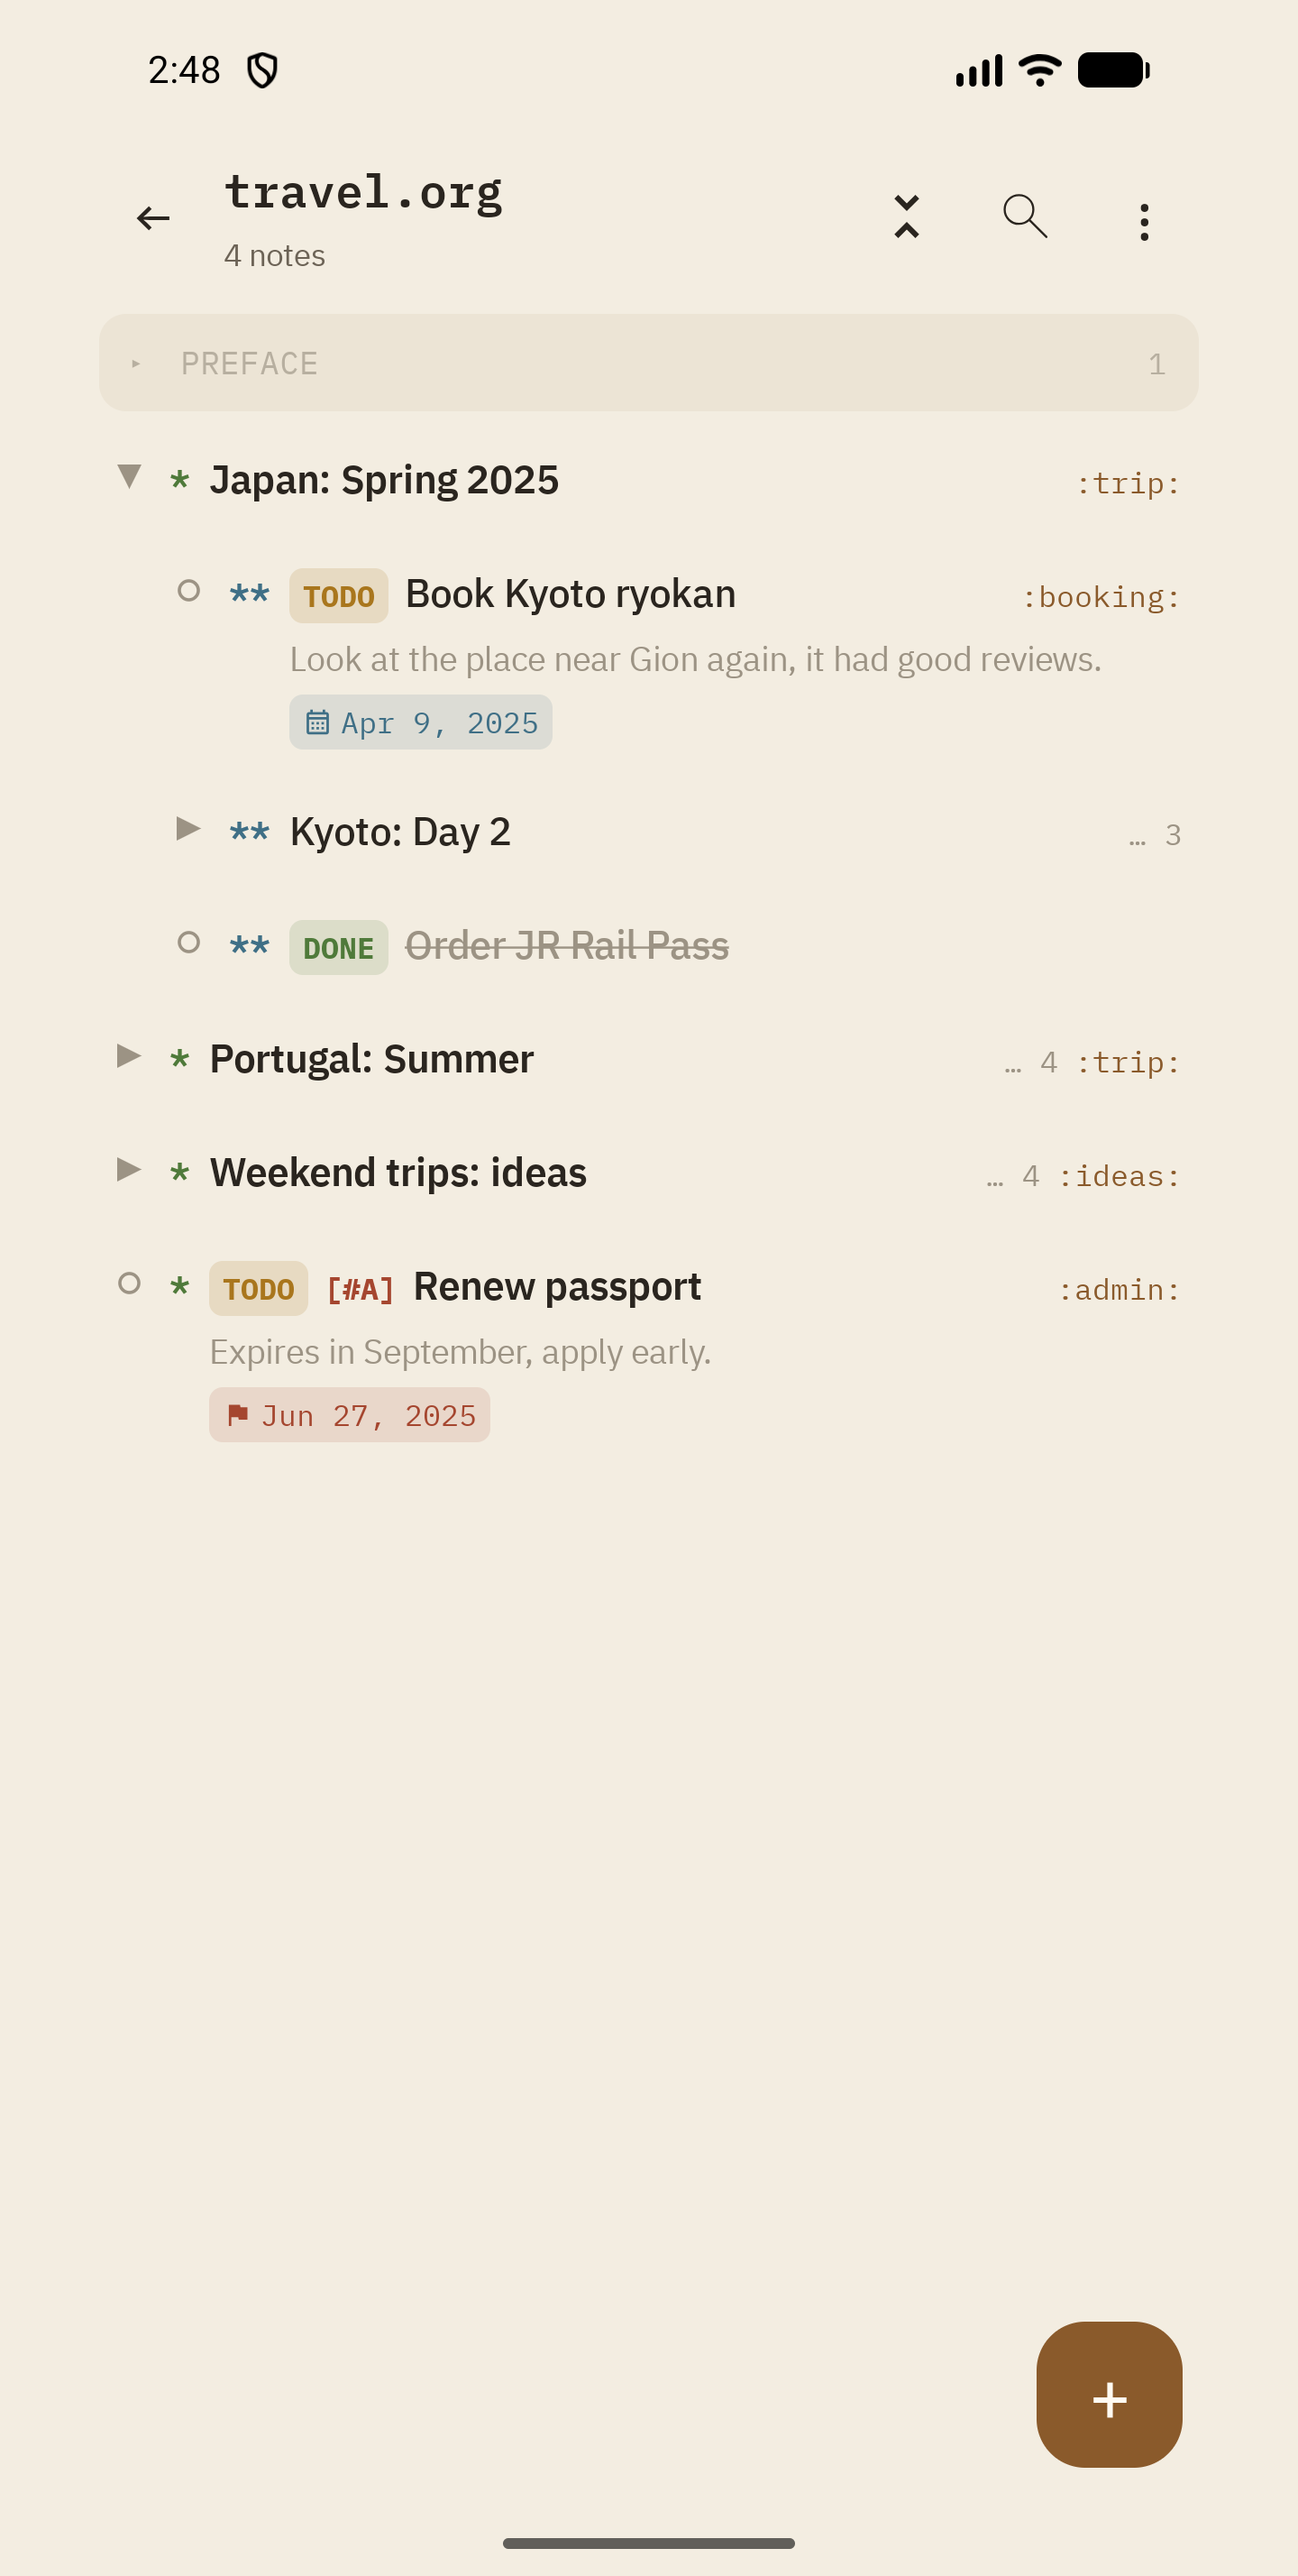
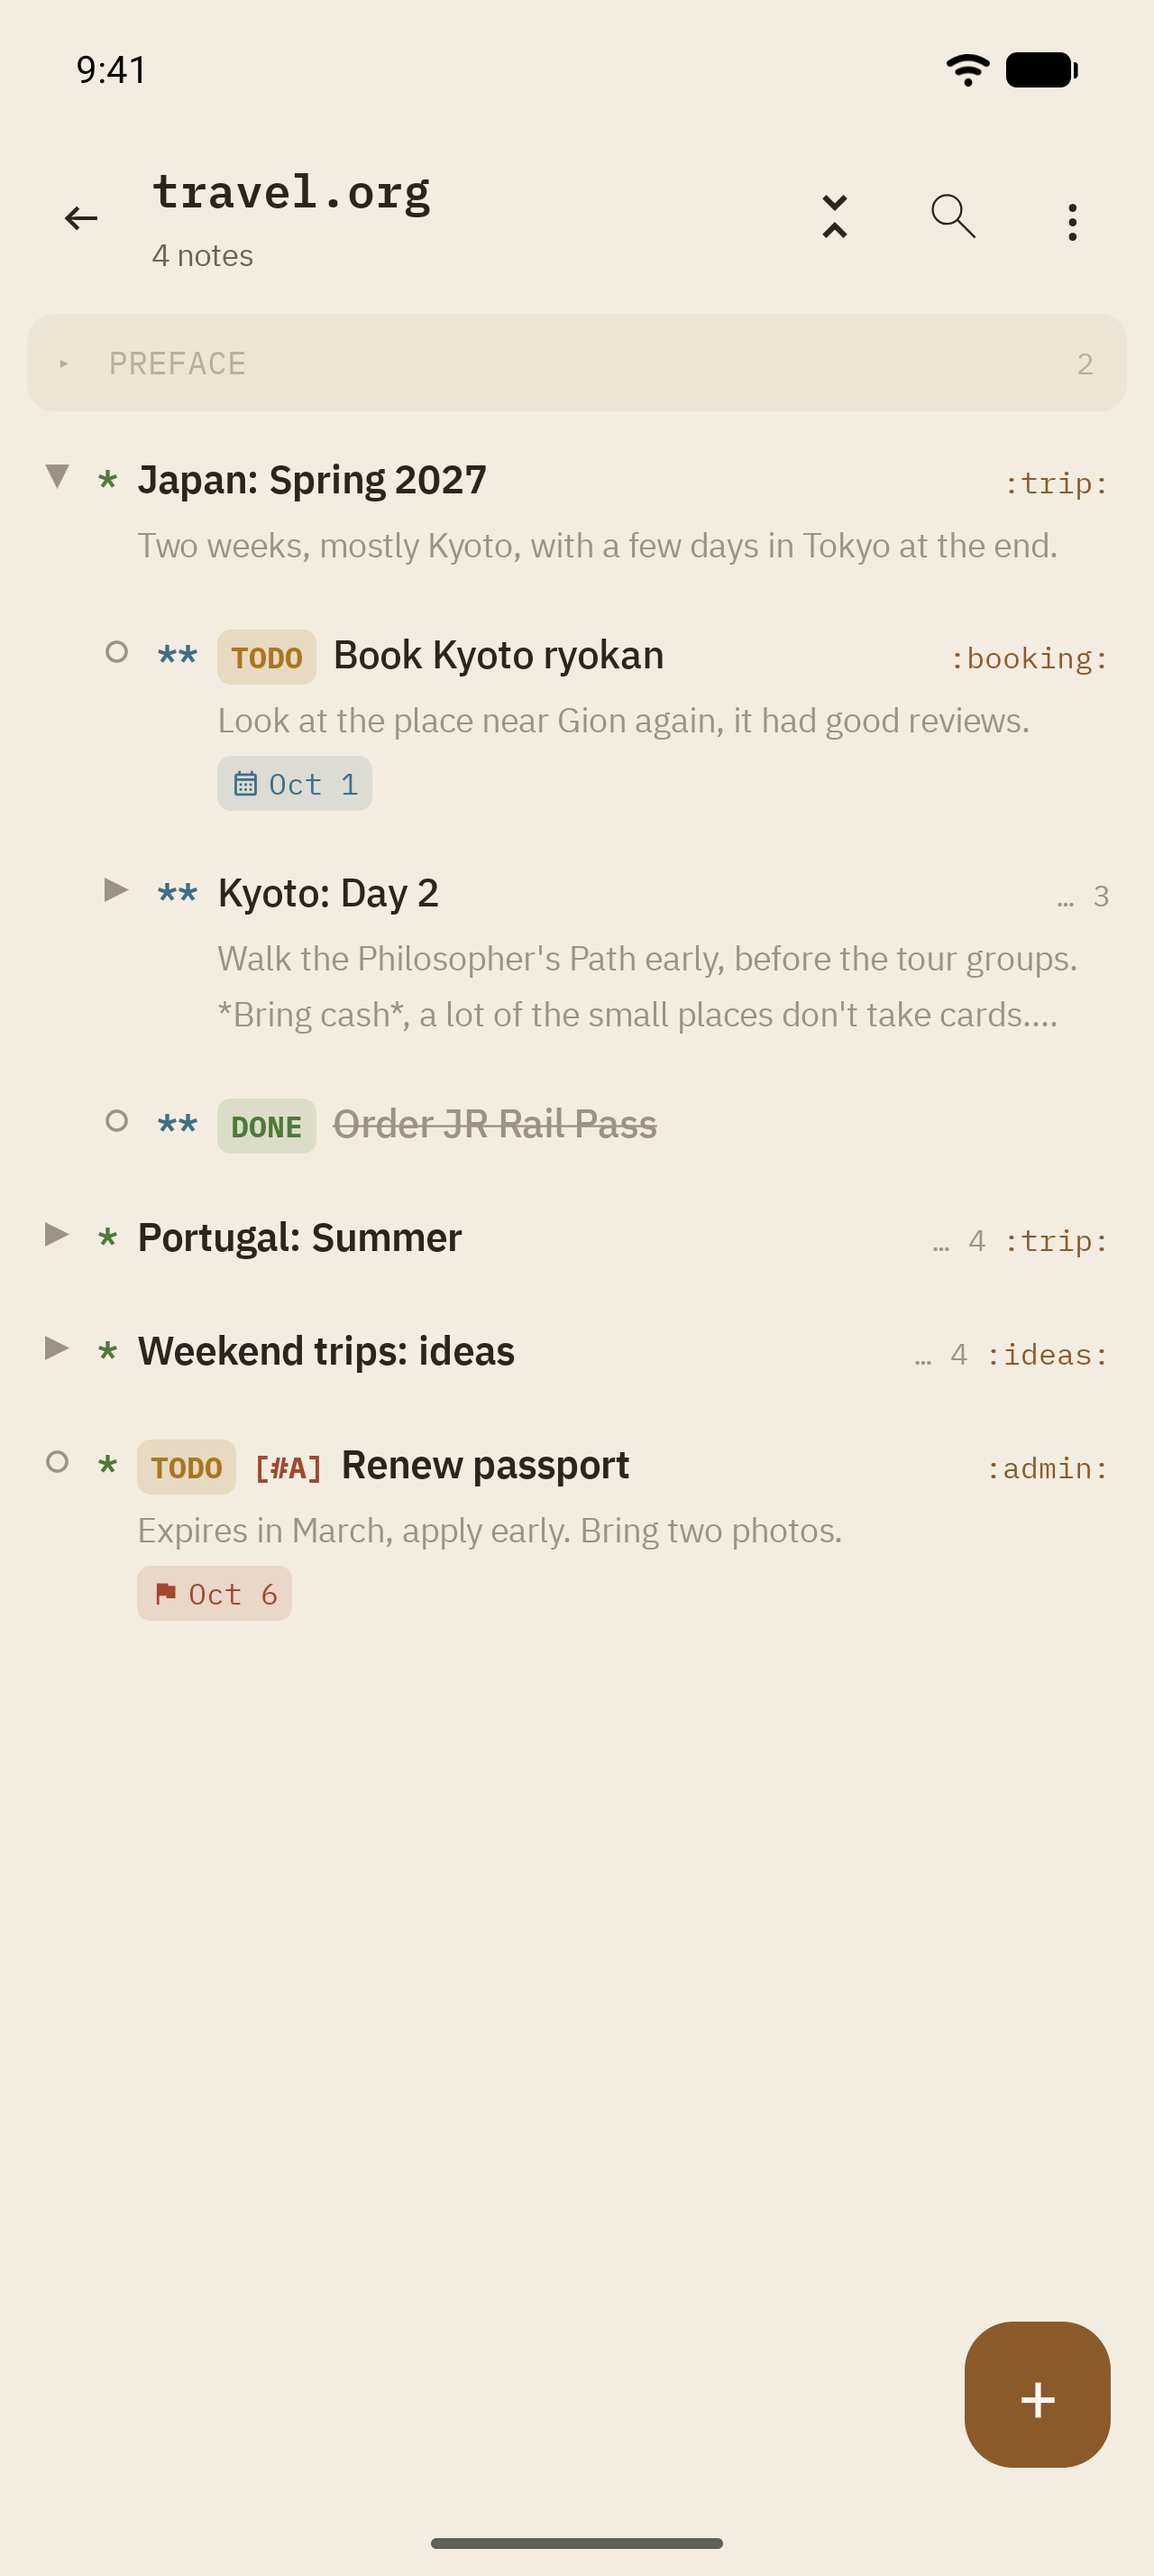
Refresh README and store screenshots; fix README minSdk

diff --git a/README.md b/README.md
@@ -49,17 +49,17 @@ Grove edits plain `.org` files in a folder you choose. There is no account, no p
 
 | Notebooks                                                                           | Outline                                                                         | Read mode                                                                          |
 |-------------------------------------------------------------------------------------|---------------------------------------------------------------------------------|------------------------------------------------------------------------------------|
-| ![Notebooks](screenshots/GroveLight/notebooks.png) | ![Outline](screenshots/GroveLight/outline.png) | ![Read mode](screenshots/GroveLight/read-mode.png) |
+| ![Notebooks](fastlane/metadata/android/en-US/images/phoneScreenshots/1.png) | ![Outline](fastlane/metadata/android/en-US/images/phoneScreenshots/2.png) | ![Read mode](fastlane/metadata/android/en-US/images/phoneScreenshots/3.png) |
 
 | Edit mode                                                                          | Agenda                                                                        | Widget                                                                        |
 |------------------------------------------------------------------------------------|-------------------------------------------------------------------------------|-------------------------------------------------------------------------------|
-| ![Edit mode](fastlane/metadata/android/en-US/images/phoneScreenshots/4.png) | ![Agenda](screenshots/GroveLight/agenda.png) | ![Widget](fastlane/metadata/android/en-US/images/phoneScreenshots/6.png) |
+| ![Edit mode](fastlane/metadata/android/en-US/images/phoneScreenshots/4.png) | ![Agenda](fastlane/metadata/android/en-US/images/phoneScreenshots/5.png) | ![Widget](fastlane/metadata/android/en-US/images/phoneScreenshots/6.png) |
 
 ## Getting started
 
 ### Requirements
 
-- Android 14+ (`minSdk 34`)
+- Android 6.0+ (`minSdk 23`)
 - To build: JDK 17+, Android SDK 36. Open in Android Studio, or:
 
 ```bash

diff --git a/CHANGELOG.md b/CHANGELOG.md
@@ -70,6 +70,7 @@ re-uploads the APKs to the existing release instead of failing.
 ### Changed
 - Release AABs built by CI are now named `grove-<versionName>-release.aab`.
 - README now shows build, release, F-Droid, downloads, license, platform, stack, activity, and docs badges.
+- Refreshed README and store screenshots; README now states the correct minimum Android version (6.0).
 - Date filters follow Orgzly defaults: `s.today` now includes overdue. Saved searches are migrated to keep their meaning.
 - Plain search text also matches a heading's own tags; filter-only searches sort by notebook, priority, then date.
 - Editor suggestion strip restyled with outlined chips; Capture's Save now fits inside it, aligned with the Read/Edit toggle.
